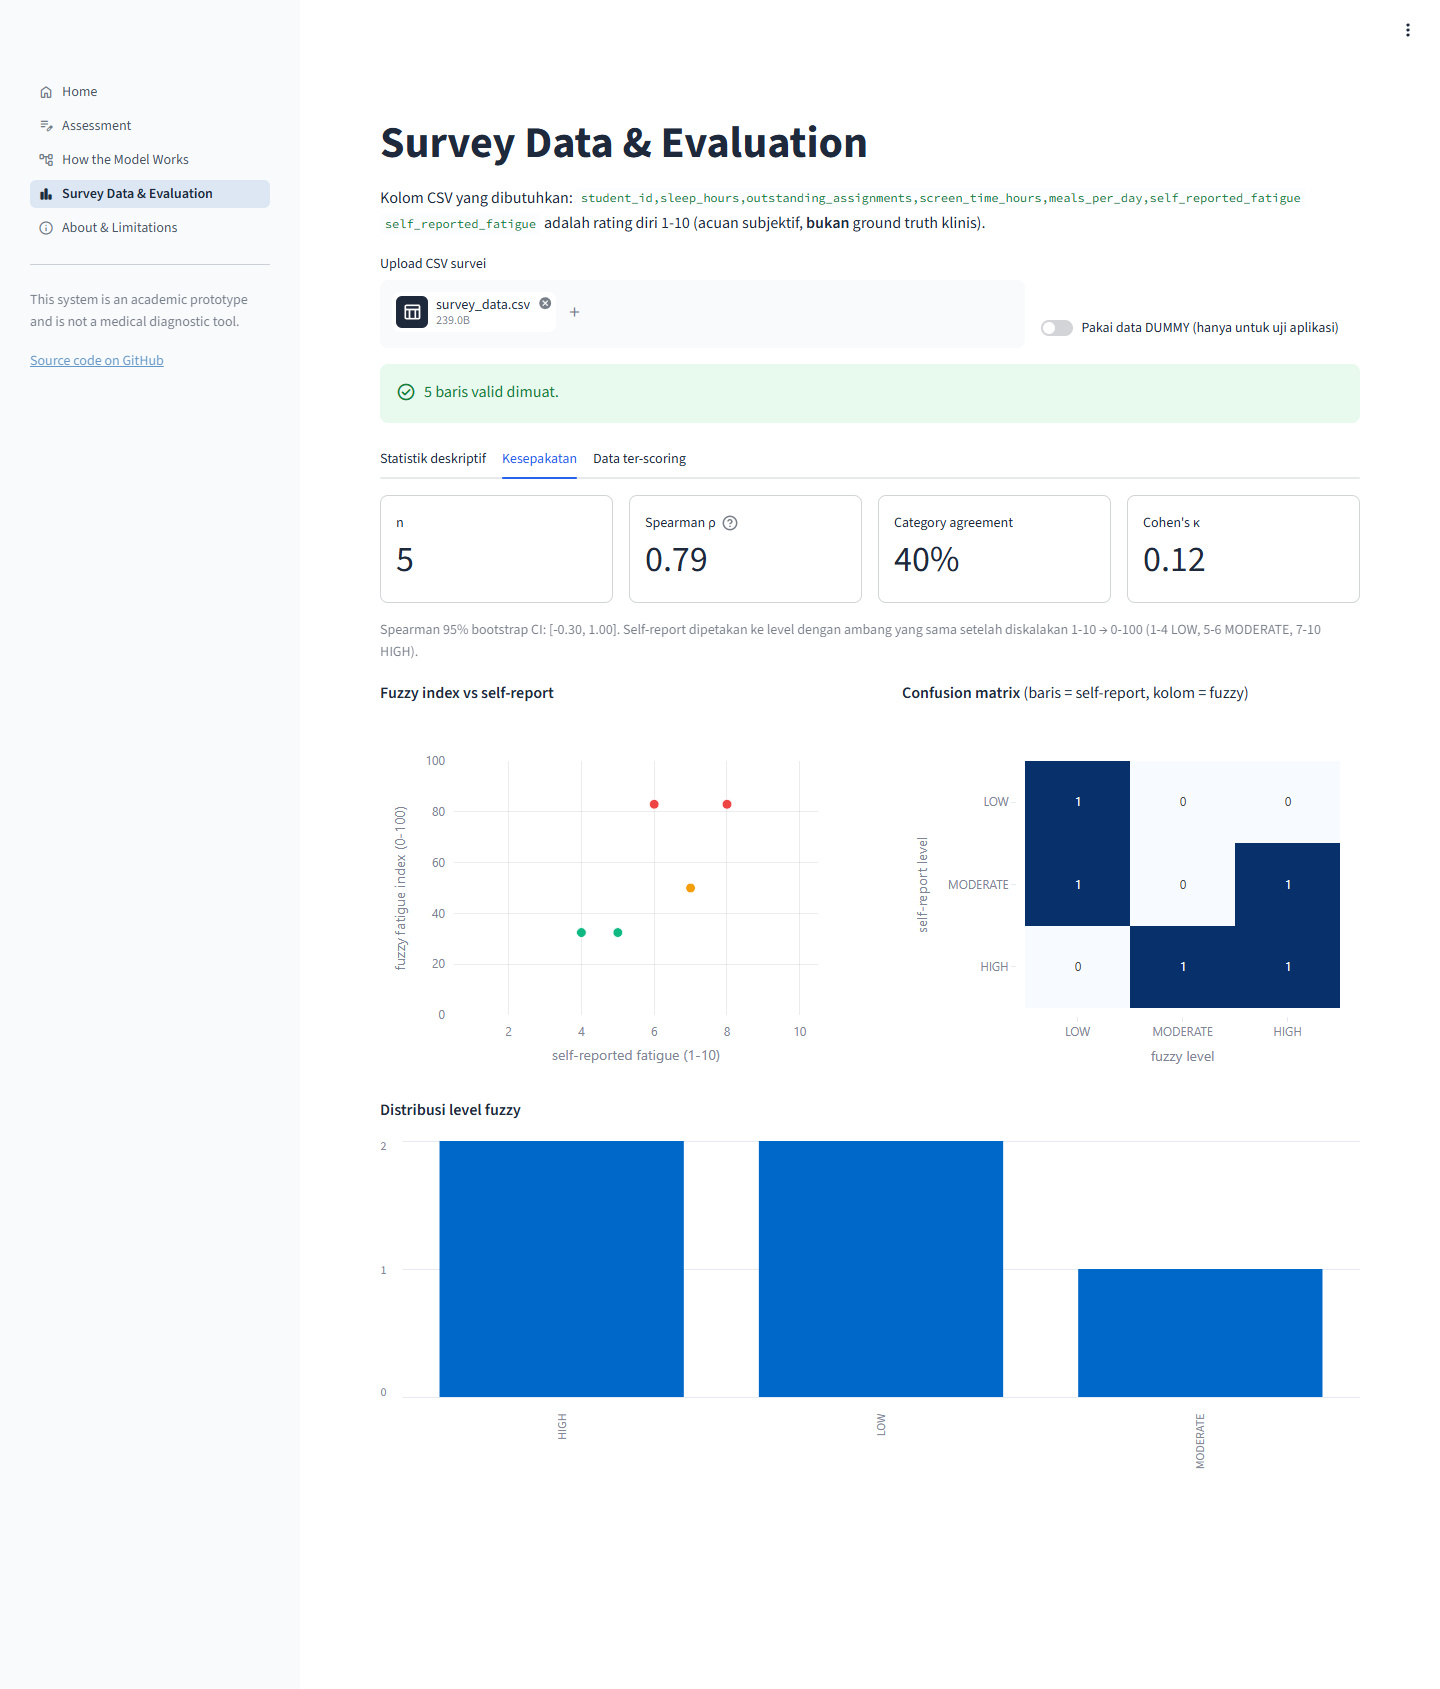
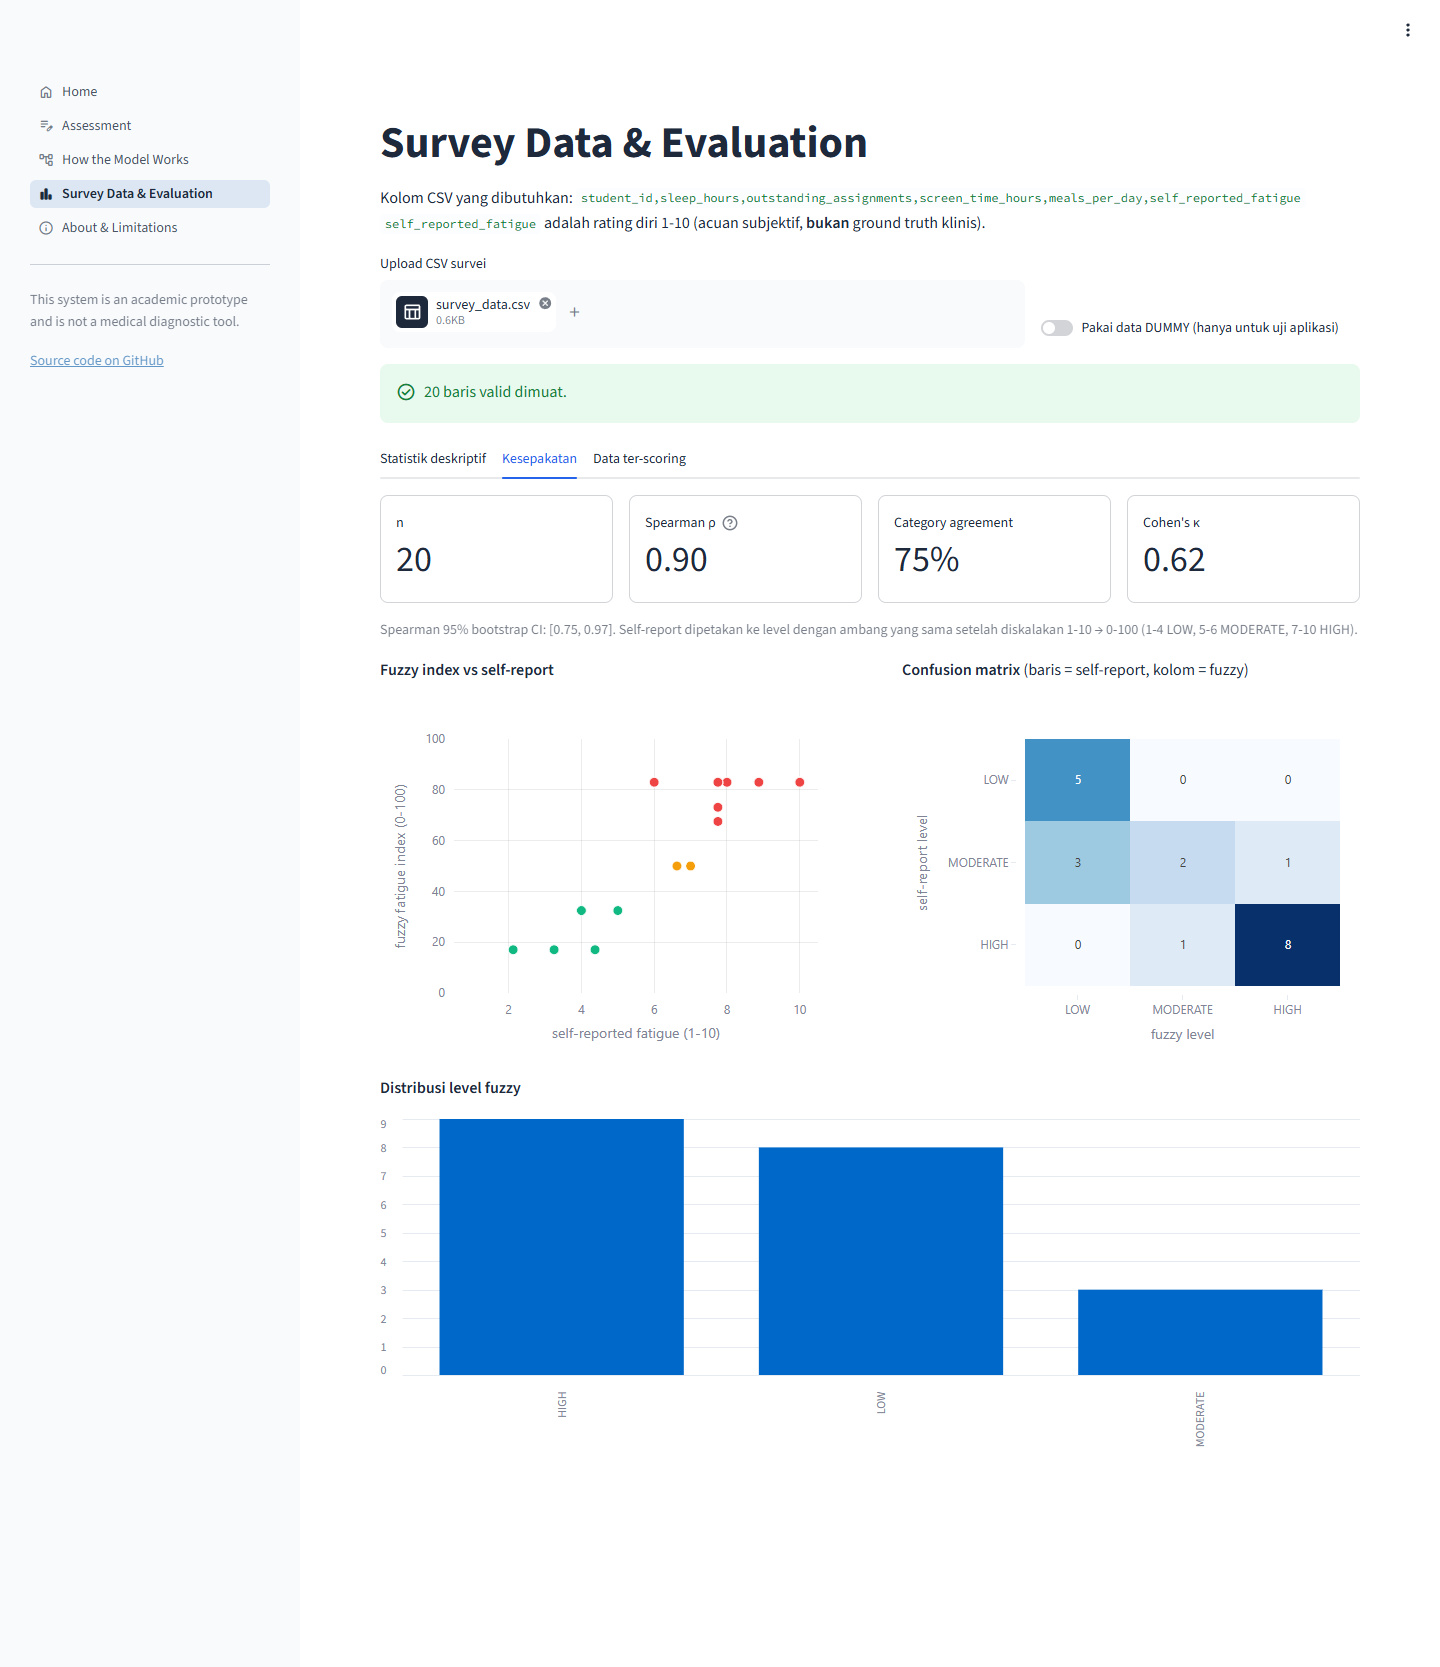
Add survey responses R06-R20, update evaluation results

diff --git a/README.md b/README.md
@@ -62,12 +62,12 @@ Values outside the range are clipped to the nearest bound.
 
 ## Dataset
 
-- `data/survey_data.csv`: real survey responses from students, anonymised as `R01`–`R05` (n = 5). The `group` column keeps the respondent's study-program/cohort code as written in the survey.
+- `data/survey_data.csv`: survey responses from students, anonymised as `R01`–`R20` (n = 20). R06–R20 answered the fatigue question on a 1–5 scale; their values were converted linearly to 1–10 with `1 + (x − 1) × 9/4`. The `group` column is left empty.
 - `data/dummy_survey_data.csv`: **DUMMY DATA**, 15 rows written by hand only to test the app. Not collected from students, not a research result. The app shows a red warning when this data is loaded.
 - `data/survey_template.csv`: header for the real survey export.
 - Column definitions and the matching survey questions: [`data/README.md`](data/README.md).
 
-Evaluation on `data/survey_data.csv` (n = 5): Spearman ρ = 0.79 (95% bootstrap CI −0.30 to 1.00), category agreement 40% (2 of 5), Cohen's κ = 0.12, MAE between the fuzzy index and the rescaled self-report = 12.4 points. With five respondents the confidence interval is very wide, so these numbers only show that the pipeline works; they are not evidence that the model is valid.
+Evaluation on `data/survey_data.csv` (n = 20): Spearman ρ = 0.90 (95% bootstrap CI 0.75 to 0.97), category agreement 75% (15 of 20), Cohen's κ = 0.62, MAE between the fuzzy index and the rescaled self-report = 11.5 points. Four of the five disagreements are one category apart with the model rating lower than the respondent (3 × MODERATE → LOW, 1 × HIGH → MODERATE). The sample is small and self-reported, and part of it was converted from a 1–5 scale, so these numbers describe agreement on this sample only.
 
 ## Screenshots
 
@@ -91,7 +91,7 @@ Evaluation on `data/survey_data.csv` (n = 5): Spearman ρ = 0.79 (95% bootstrap 
 
 ![How the model works](screenshots/05_how_the_model_works.png)
 
-**Survey Data & Evaluation: descriptive statistics** (`data/survey_data.csv`, n = 5)
+**Survey Data & Evaluation: descriptive statistics** (`data/survey_data.csv`, n = 20)
 
 ![Survey descriptive statistics](screenshots/06_survey_evaluation.png)
 

diff --git a/data/README.md b/data/README.md
@@ -4,7 +4,7 @@
 |---|---|
 | `dummy_survey_data.csv` | **DUMMY DATA.** 15 rows invented by hand by the team only to test the app. Not collected from any student, not a research result. All IDs start with `DUMMY_`, and the app shows a red warning when it detects them. |
 | `survey_template.csv` | Empty template with the required header. |
-| `survey_data.csv` | Real survey responses, anonymised as `R01`–`R05` (n = 5). Extra column `group` = study-program/cohort code as written by the respondent; the app ignores it. |
+| `survey_data.csv` | Survey responses, anonymised as `R01`–`R20` (n = 20). R06–R20 rated fatigue on a 1–5 scale; converted to 1–10 with `1 + (x − 1) × 9/4` (1 → 1, 3 → 5.5, 5 → 10). Extra column `group` is left empty; the app ignores it. |
 
 ## Column definitions (must match the survey questions)
 
